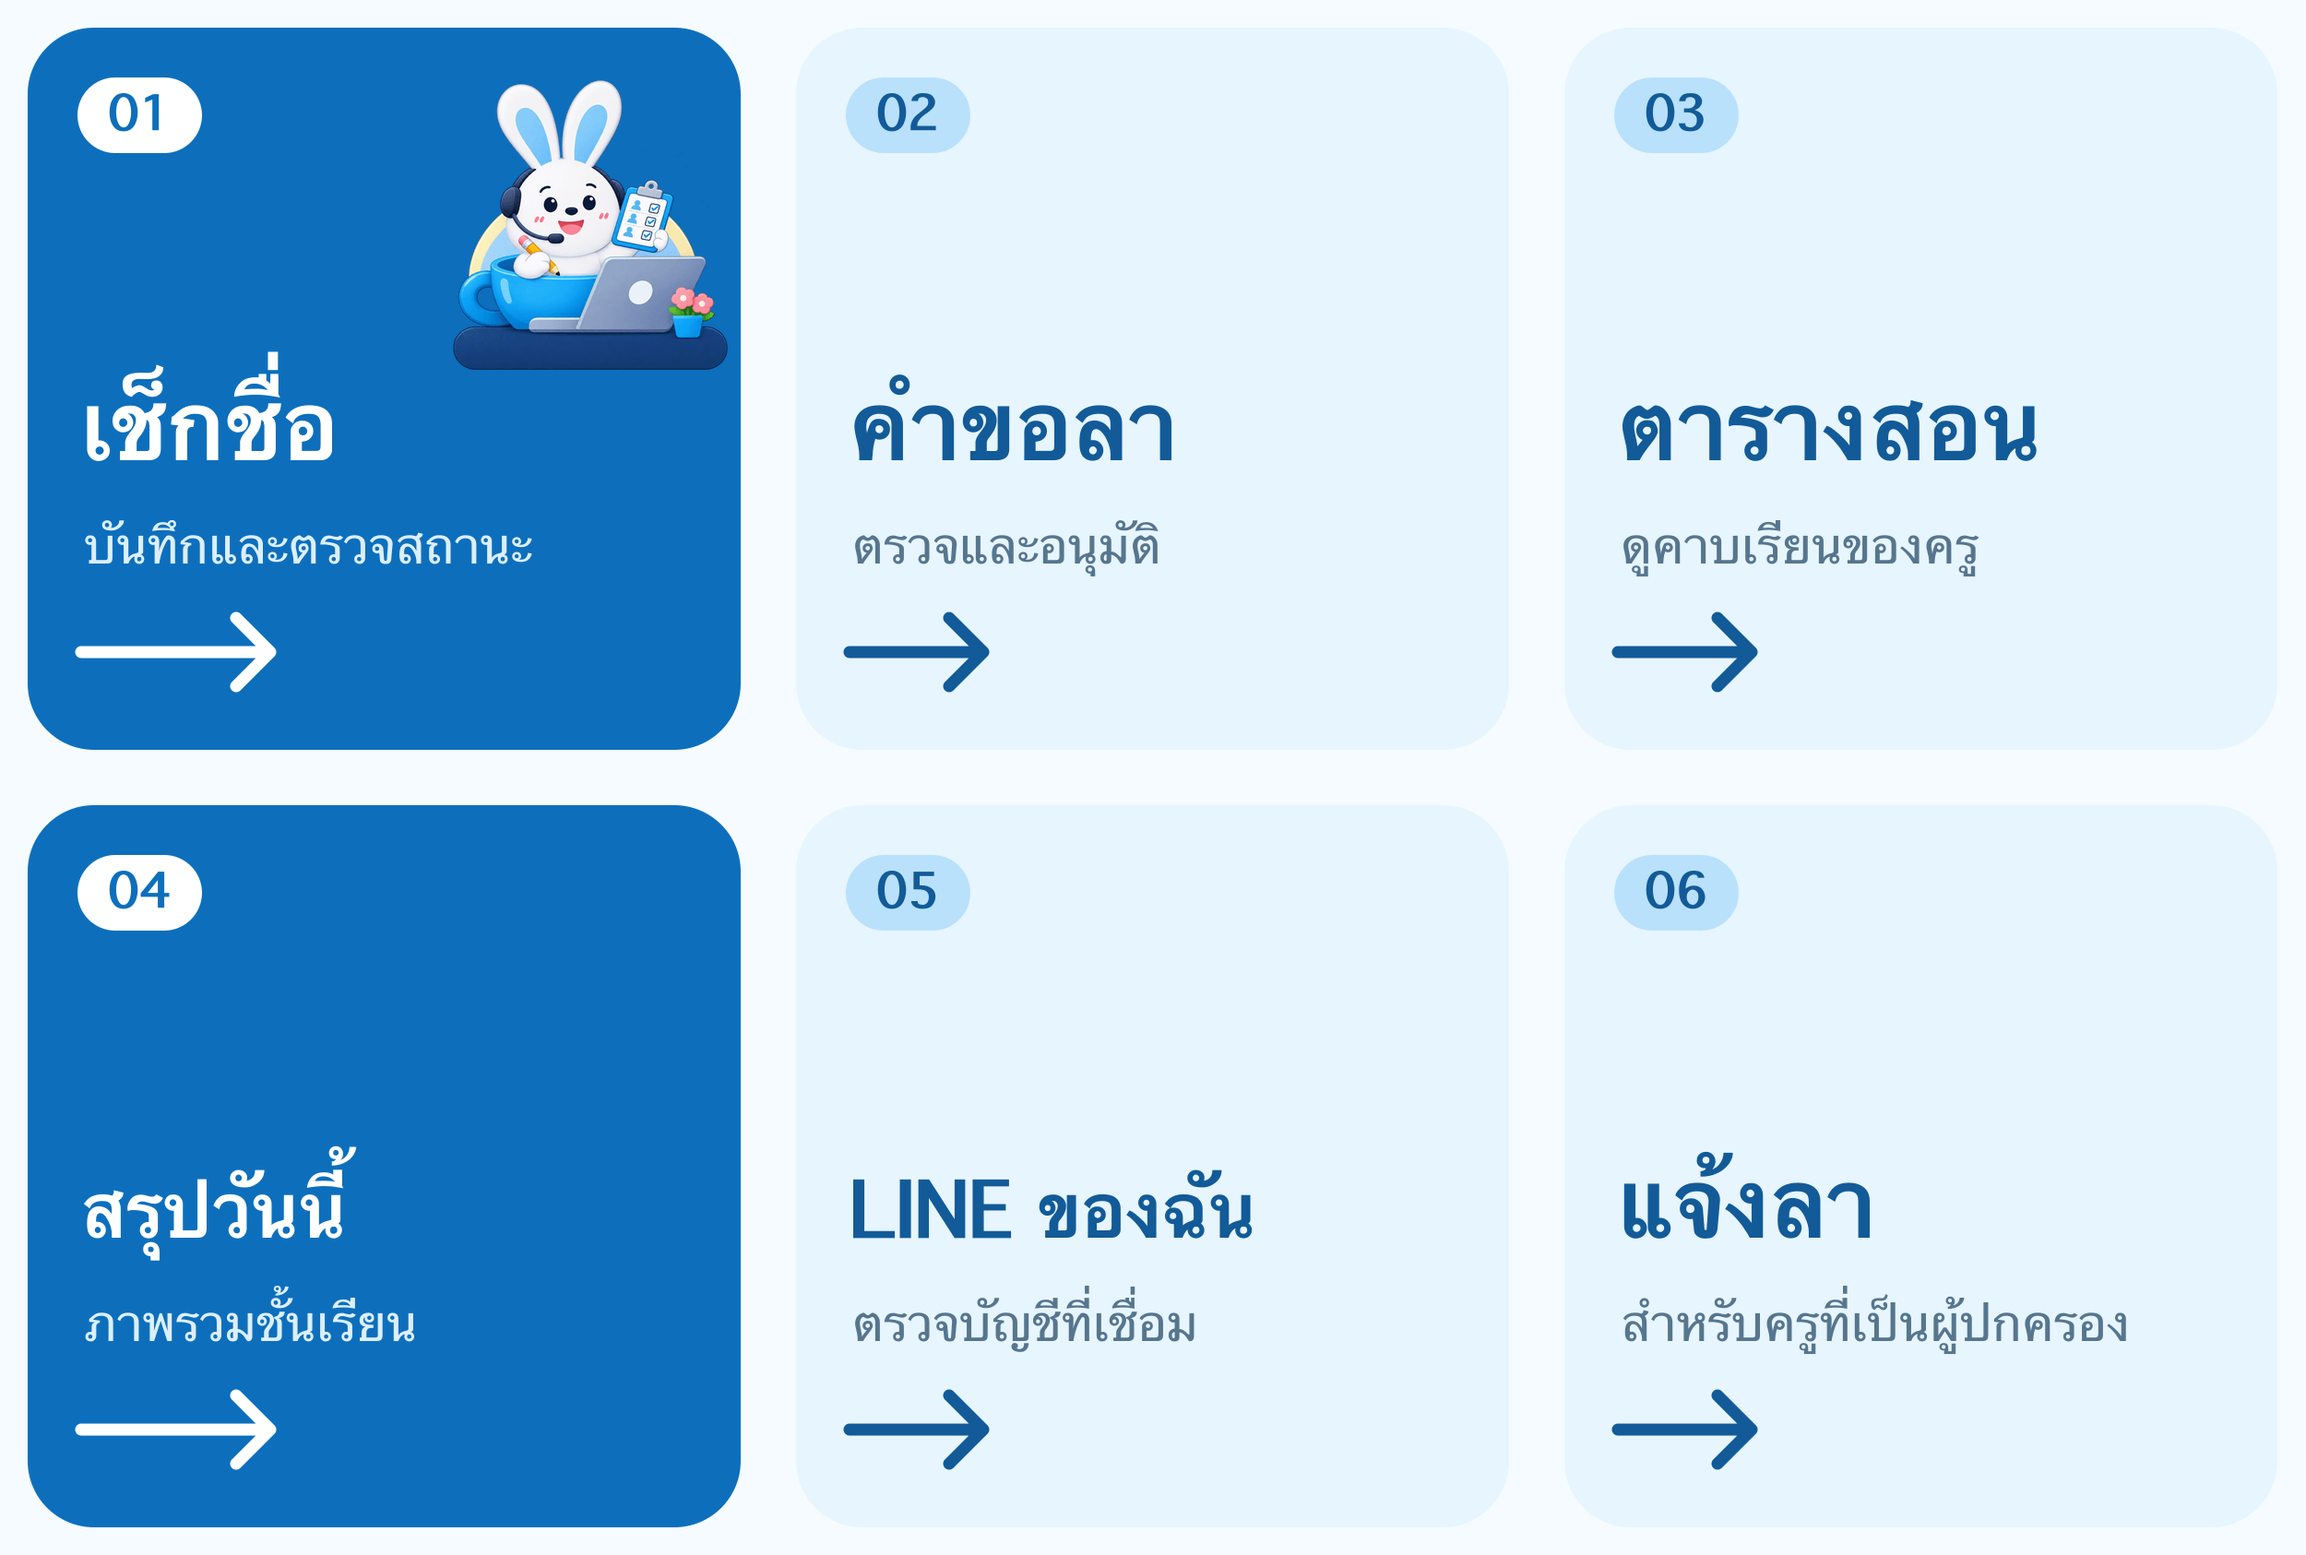
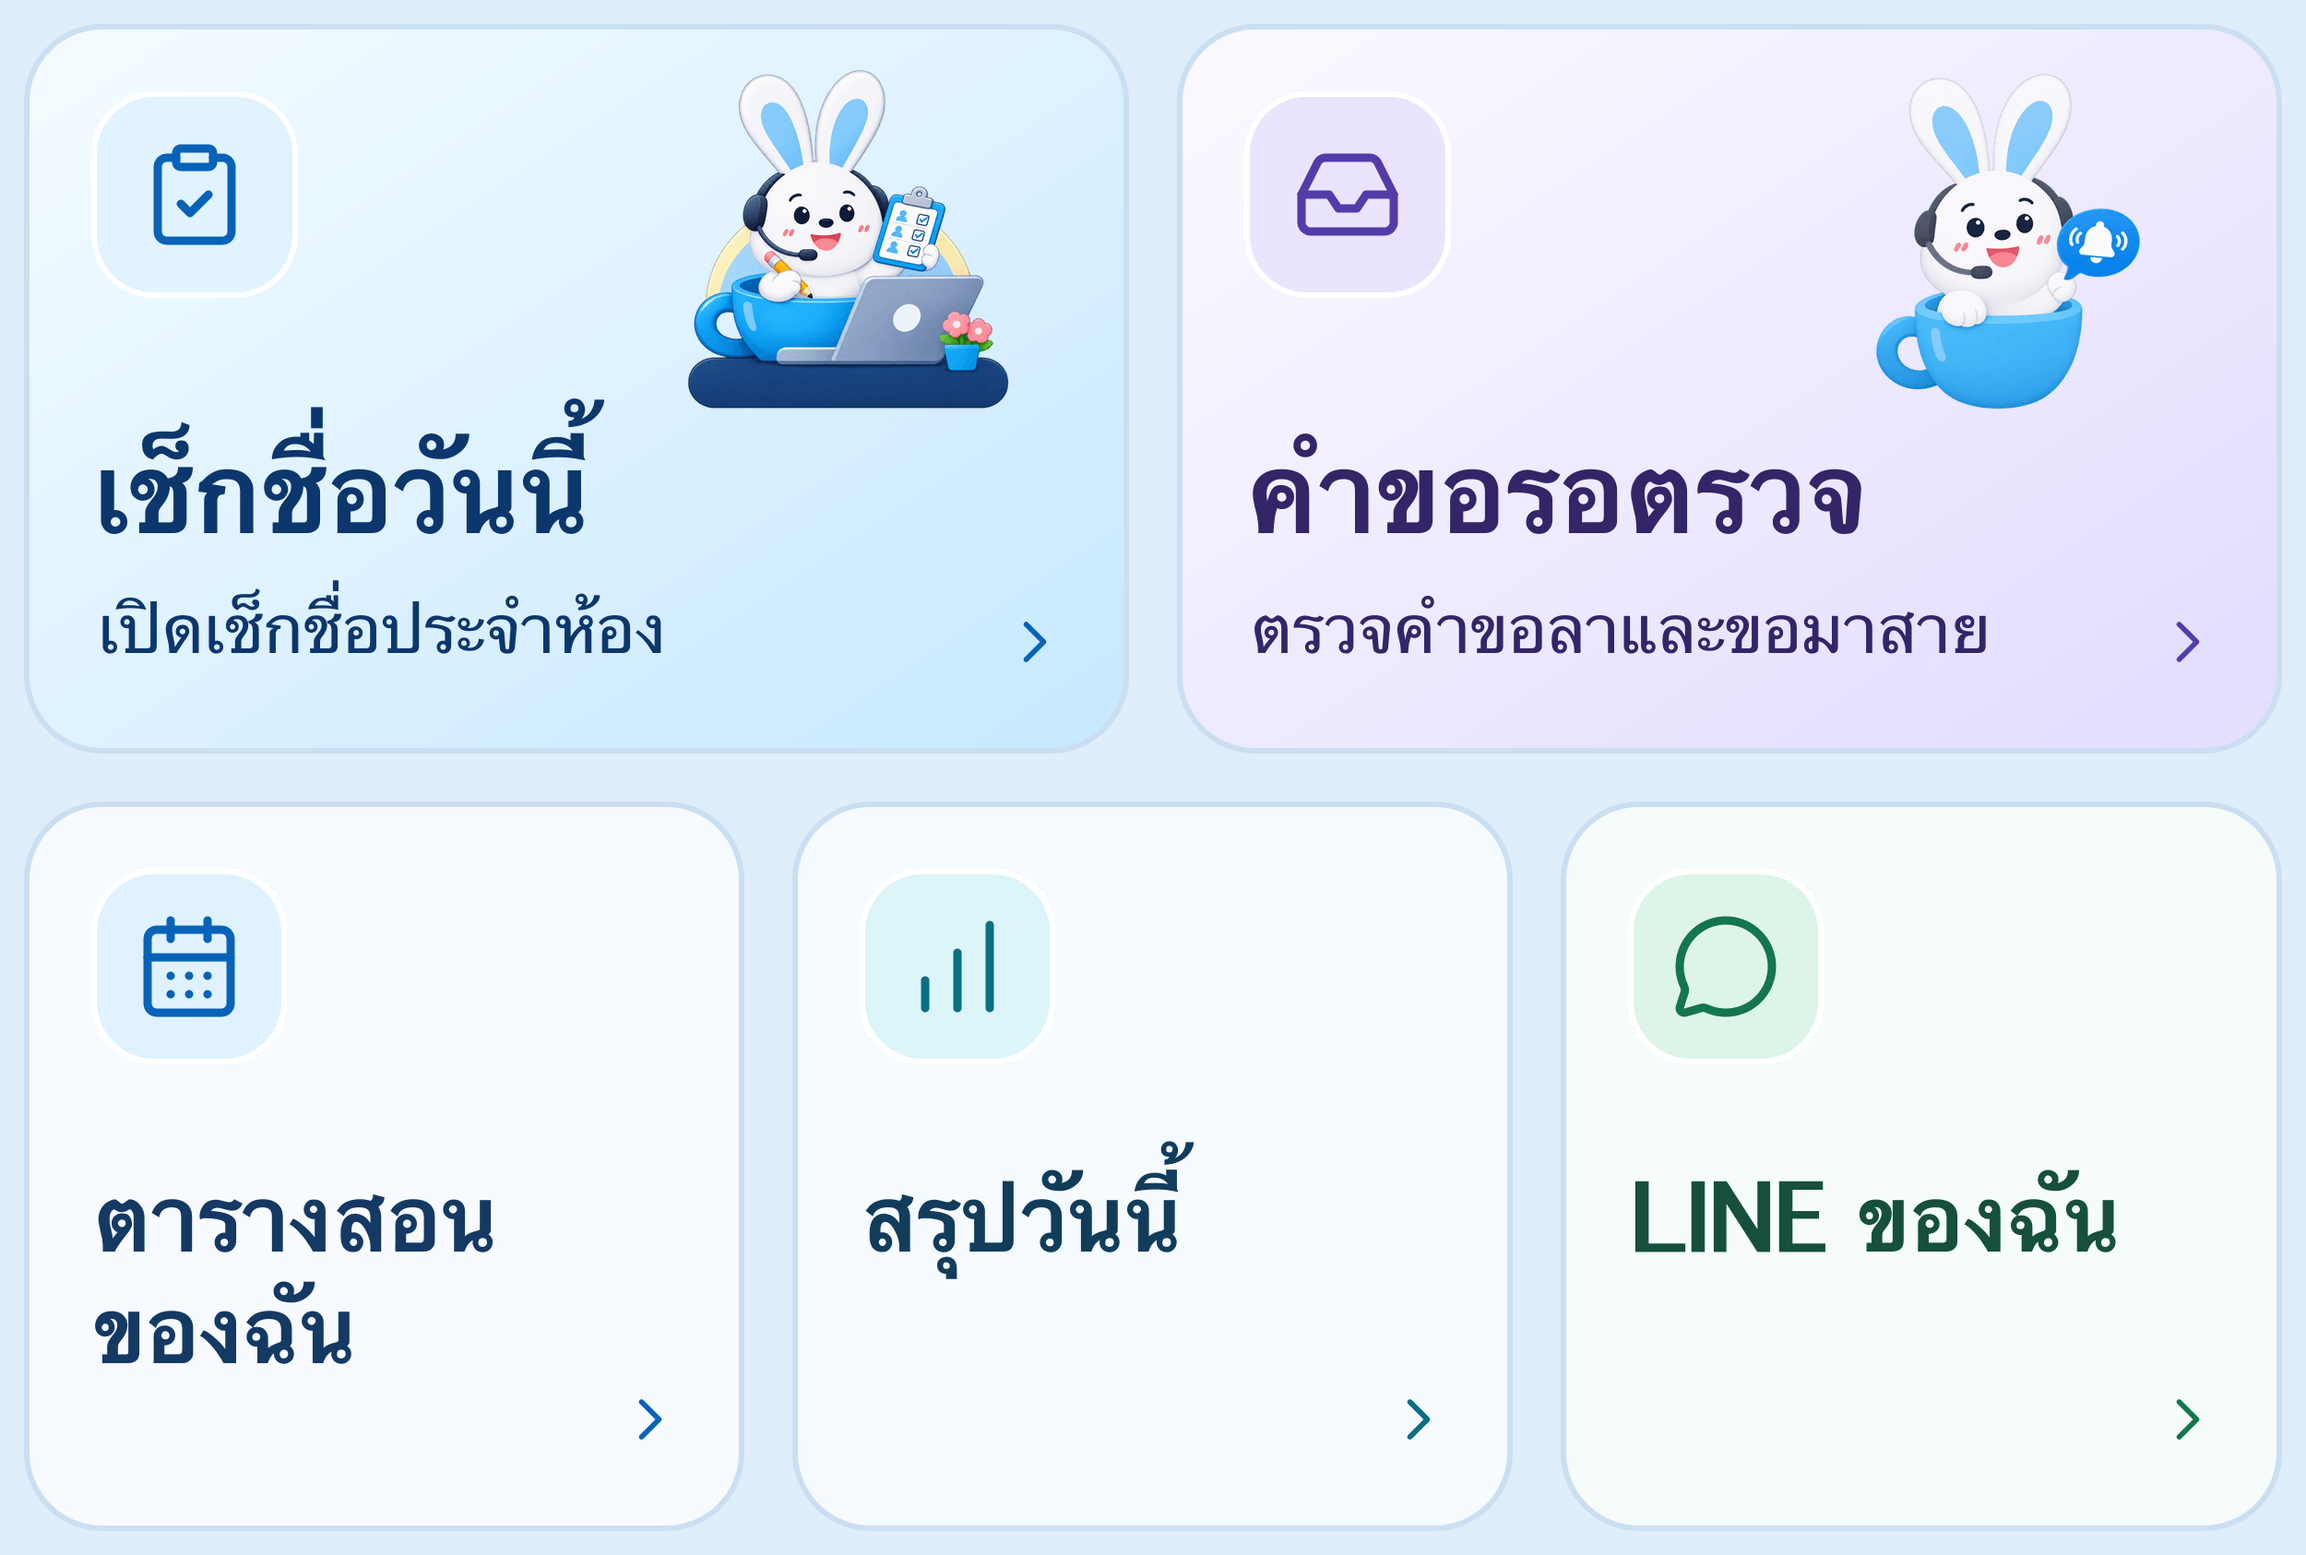
Refresh teacher LINE rich menu

diff --git a/features/line/services/teacher-rich-menu.ts b/features/line/services/teacher-rich-menu.ts
@@ -1,7 +1,7 @@
 import "server-only";
 
 const API = "https://api.line.me/v2/bot";
-const TEACHER_MENU_NAME = "Chumkosoft teacher v1";
+const TEACHER_MENU_NAMES = ["Chumkosoft teacher v2", "Chumkosoft teacher v1"];
 
 function token(): string | null {
   return process.env.LINE_CHANNEL_ACCESS_TOKEN || null;
@@ -18,11 +18,15 @@ async function lineRequest(path: string, method = "GET"): Promise<Response | nul
   });
 }
 
-export async function teacherRichMenuId(): Promise<string | null> {
+async function publishedTeacherMenus(): Promise<string[] | null> {
   const response = await lineRequest("/richmenu/list");
   if (!response?.ok) return null;
-  const data = await response.json() as { richmenus?: { richMenuId: string; name: string }[] };
-  return data.richmenus?.find((menu) => menu.name === TEACHER_MENU_NAME)?.richMenuId ?? null;
+  const { richmenus = [] } = await response.json() as { richmenus?: { richMenuId: string; name: string }[] };
+  return TEACHER_MENU_NAMES.flatMap((name) => richmenus.filter((menu) => menu.name === name).map((menu) => menu.richMenuId));
+}
+
+export async function teacherRichMenuId(): Promise<string | null> {
+  return (await publishedTeacherMenus())?.[0] ?? null;
 }
 
 export async function linkTeacherRichMenu(lineUserId: string, menuId?: string): Promise<boolean> {
@@ -32,12 +36,14 @@ export async function linkTeacherRichMenu(lineUserId: string, menuId?: string): 
   return Boolean(response?.ok);
 }
 
-export async function unlinkTeacherRichMenu(lineUserId: string, menuId: string): Promise<boolean> {
+export async function unlinkTeacherRichMenu(lineUserId: string): Promise<boolean> {
   const current = await lineRequest(`/user/${encodeURIComponent(lineUserId)}/richmenu`);
   if (current?.status === 404) return true;
   if (!current?.ok) return false;
   const data = await current.json() as { richMenuId?: string };
-  if (data.richMenuId !== menuId) return true;
+  const teacherMenus = await publishedTeacherMenus();
+  if (!teacherMenus) return false;
+  if (!data.richMenuId || !teacherMenus.includes(data.richMenuId)) return true;
   const response = await lineRequest(`/user/${encodeURIComponent(lineUserId)}/richmenu`, "DELETE");
   return Boolean(response?.ok);
 }

diff --git a/features/line/services/line-service.ts b/features/line/services/line-service.ts
@@ -9,7 +9,7 @@ import { isLinePushEnabled } from "@/features/line/services/line-delivery-settin
 import { randomUUID } from "node:crypto";
 import prisma from "@/lib/prisma";
 import { sendLineTextToUsers } from "@/lib/line";
-import { linkTeacherRichMenu, teacherRichMenuId, unlinkTeacherRichMenu } from "@/features/line/services/teacher-rich-menu";
+import { linkTeacherRichMenu, unlinkTeacherRichMenu } from "@/features/line/services/teacher-rich-menu";
 import type { ActionResult } from "@/types/form";
 
 /** Pushes a gate check-in notification to every linked guardian of the student. */
@@ -66,8 +66,7 @@ export async function unlinkAdvisorLine(staffId: string): Promise<ActionResult> 
   await repo.clearAdvisorLine(staffId);
   if (lineUserId && !usedByOtherStaff) {
     try {
-      const menuId = await teacherRichMenuId();
-      if (!menuId || !(await unlinkTeacherRichMenu(lineUserId, menuId))) {
+      if (!(await unlinkTeacherRichMenu(lineUserId))) {
         return { ok: true, message: "ยกเลิกการเชื่อมแล้ว แต่ไม่สามารถอัปเดตริชเมนู LINE ได้ กรุณาตรวจการเชื่อมต่อ" };
       }
     } catch {

diff --git a/app/api/internal/line-rich-menu/sync/route.ts b/app/api/internal/line-rich-menu/sync/route.ts
@@ -31,7 +31,7 @@ export async function POST(request: Request): Promise<Response> {
         if (active.has(lineUserId)) {
           if (await linkTeacherRichMenu(lineUserId, menuId)) linked += 1;
           else failed += 1;
-        } else if (await unlinkTeacherRichMenu(lineUserId, menuId)) unlinked += 1;
+        } else if (await unlinkTeacherRichMenu(lineUserId)) unlinked += 1;
         else failed += 1;
       } catch {
         failed += 1;

diff --git a/scripts/publish-line-rich-menu.py b/scripts/publish-line-rich-menu.py
@@ -29,27 +29,26 @@ MENU = {
         "action": {"type": "postback", "data": "leave|start"},
     }],
 }
-TEACHER_NAME = "Chumkosoft teacher v1"
-TEACHER_ACTIONS = [
-    {"type": "uri", "label": "เช็กชื่อ", "uri": "https://chumkosoft.com/dashboard/attendance"},
-    {"type": "uri", "label": "คำขอลา", "uri": "https://chumkosoft.com/dashboard/leave-requests"},
-    {"type": "uri", "label": "ตารางสอน", "uri": "https://chumkosoft.com/dashboard/timetable"},
-    {"type": "uri", "label": "สรุปวันนี้", "uri": "https://chumkosoft.com/dashboard/attendance?mode=school"},
-    {"type": "uri", "label": "LINE ของฉัน", "uri": "https://chumkosoft.com/dashboard/my-line"},
-    {"type": "postback", "data": "leave|start"},
-]
+TEACHER_CONFIG = json.loads((ROOT / "scripts/line-teacher-menu.json").read_text(encoding="utf-8"))
+TEACHER_WIDTH = 2500
+TEACHER_ROW_HEIGHT = 843
 TEACHER_MENU = {
-    "size": {"width": 2500, "height": 1686},
+    "size": {"width": TEACHER_WIDTH, "height": TEACHER_ROW_HEIGHT * len(TEACHER_CONFIG["rows"])},
     "selected": True,
-    "name": TEACHER_NAME,
+    "name": TEACHER_CONFIG["name"],
     "chatBarText": "เมนูครู",
     "areas": [
         {
-            "bounds": {"x": (index % 3) * 833, "y": (index // 3) * 843,
-                       "width": 834 if index % 3 == 2 else 833, "height": 843},
-            "action": action,
+            "bounds": {
+                "x": column * TEACHER_WIDTH // len(row),
+                "y": index * TEACHER_ROW_HEIGHT,
+                "width": (column + 1) * TEACHER_WIDTH // len(row) - column * TEACHER_WIDTH // len(row),
+                "height": TEACHER_ROW_HEIGHT,
+            },
+            "action": {"type": "uri", "label": button["label"], "uri": f"https://chumkosoft.com{button['path']}"},
         }
-        for index, action in enumerate(TEACHER_ACTIONS)
+        for index, row in enumerate(TEACHER_CONFIG["rows"])
+        for column, button in enumerate(row)
     ],
 }
 
